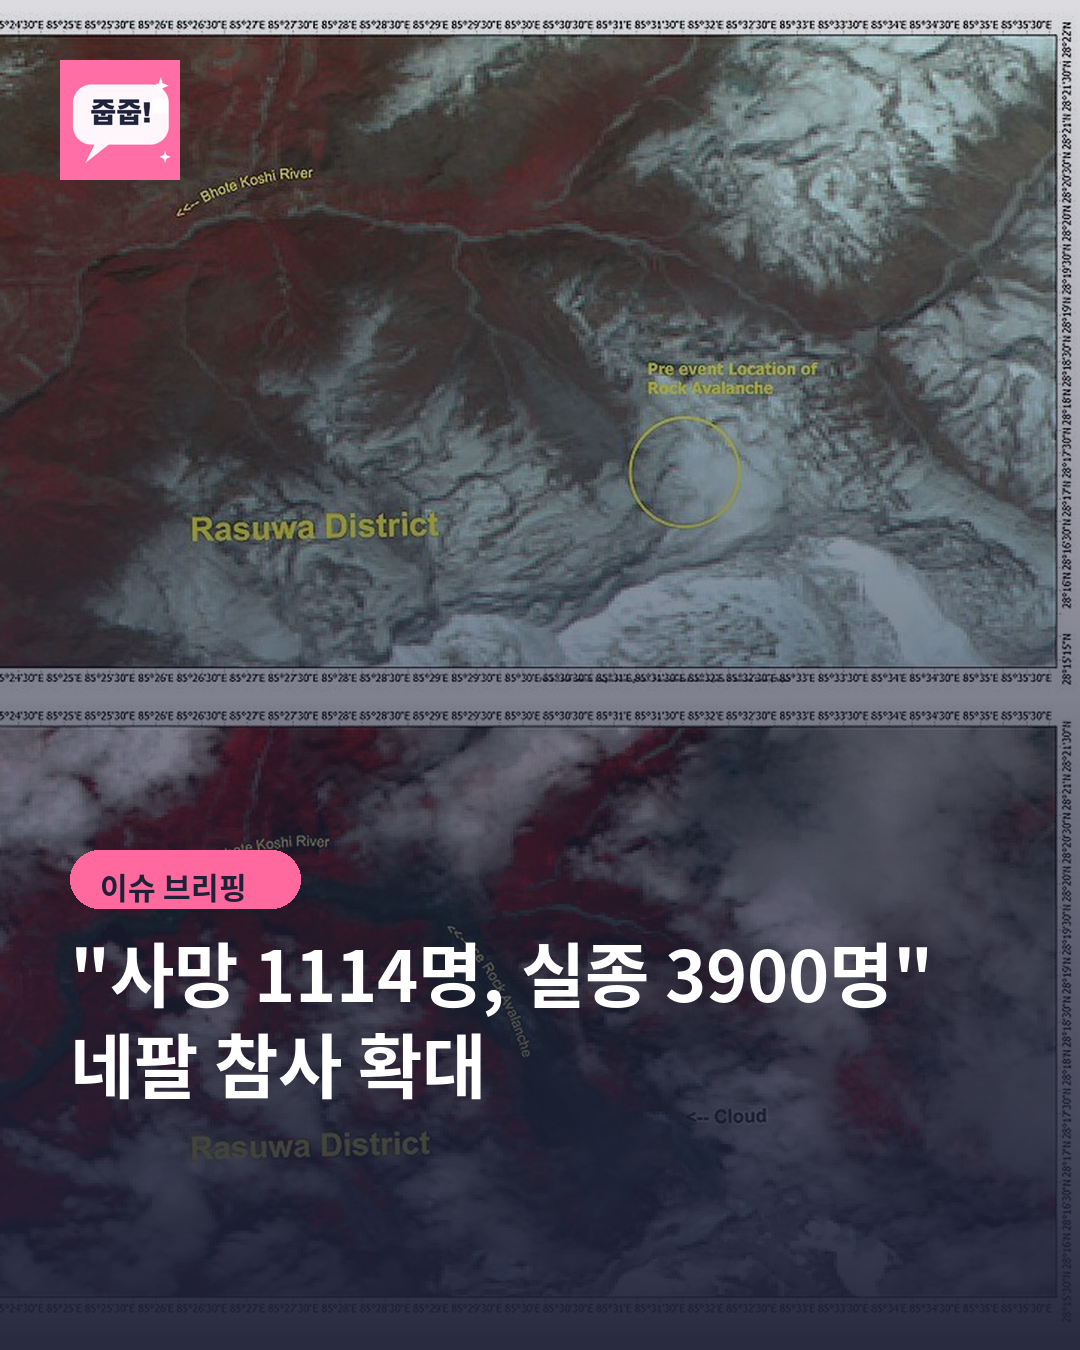
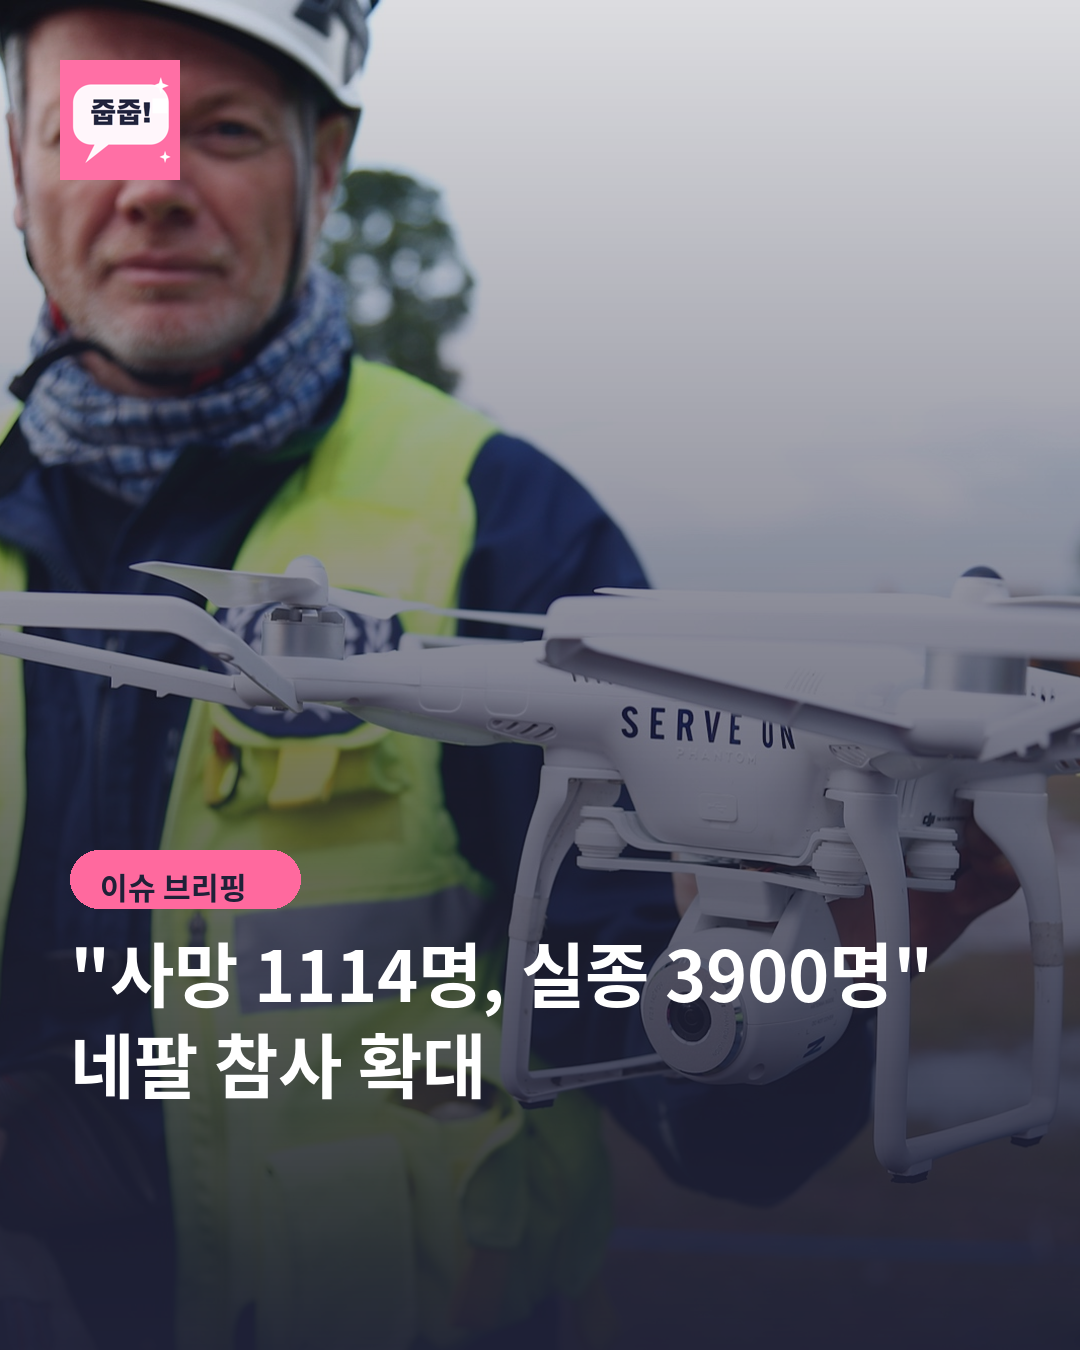
9/3 카드뉴스 6번(네팔 참사) 이미지를 위성사진에서 국제 수색구조 드론 사진으로 교체

diff --git a/assets/stock/stock_attribution.md b/assets/stock/stock_attribution.md
@@ -63,7 +63,7 @@
 | industry_posco_pohang.jpg | https://commons.wikimedia.org/wiki/File:Pohang_Korea_ISS020-E-09011_lrg.jpg | Public Domain | NASA (ISS Expedition 20) |
 | realestate_jamsil_apt.jpg | https://commons.wikimedia.org/wiki/File:Jamsil_Apartment_Complex_Phase_5_(6196571900).jpg | CC-BY-SA 2.0 | InSapphoWeTrust |
 | weather_autumn_bluesky.jpg | https://commons.wikimedia.org/wiki/File:감은사지_blue_sky.jpg | CC-BY-SA 4.0 | Ronnie Dayo |
-| disaster_nepal_satellite.jpg | https://commons.wikimedia.org/wiki/File:ESA_satellite_Imagery_of_2026_Nepal_Floods.jpg | CC-BY-SA 3.0 IGO | ESA |
+| disaster_nepal_rescue_drone.jpg | https://commons.wikimedia.org/wiki/File:Drone_surveillance_helps_search_and_rescue_in_Nepal_(16691214064).jpg | CC-BY 2.0 | Jessica Lea/DFID |
 | legal_nyc_courthouse.jpg | https://commons.wikimedia.org/wiki/File:Daniel_Patrick_Moynihan_U.S._Courthouse,_Manhattan,_New_York_(7237347688).jpg | CC-BY-SA 2.0 | Ken Lund |
 | government_nts_building.jpg | https://commons.wikimedia.org/wiki/File:South_Korea_National_Tax_Service(NTS).jpg | CC-BY-SA 4.0 | Minseong Kim |
 | sports_jamsil_stadium.jpg | https://commons.wikimedia.org/wiki/File:Interior_of_the_Jamsil_Baseball_Stadium.jpg | CC-BY-SA 4.0 | Christophe95 |

diff --git a/articles/2026-09-03.md b/articles/2026-09-03.md
@@ -103,7 +103,7 @@
 3. industry_posco_pohang.jpg — https://commons.wikimedia.org/wiki/File:Pohang_Korea_ISS020-E-09011_lrg.jpg (Public Domain, NASA)
 4. realestate_jamsil_apt.jpg — https://commons.wikimedia.org/wiki/File:Jamsil_Apartment_Complex_Phase_5_(6196571900).jpg (CC-BY-SA 2.0, InSapphoWeTrust)
 5. weather_autumn_bluesky.jpg — https://commons.wikimedia.org/wiki/File:감은사지_blue_sky.jpg (CC-BY-SA 4.0, Ronnie Dayo)
-6. disaster_nepal_satellite.jpg — https://commons.wikimedia.org/wiki/File:ESA_satellite_Imagery_of_2026_Nepal_Floods.jpg (ESA, CC-BY-SA 3.0 IGO)
+6. disaster_nepal_rescue_drone.jpg — https://commons.wikimedia.org/wiki/File:Drone_surveillance_helps_search_and_rescue_in_Nepal_(16691214064).jpg (CC-BY 2.0, Jessica Lea/DFID)
 7. legal_nyc_courthouse.jpg — https://commons.wikimedia.org/wiki/File:Daniel_Patrick_Moynihan_U.S._Courthouse,_Manhattan,_New_York_(7237347688).jpg (CC-BY-SA 2.0, Ken Lund)
 8. government_nts_building.jpg — https://commons.wikimedia.org/wiki/File:South_Korea_National_Tax_Service(NTS).jpg (CC-BY-SA 4.0, Minseong Kim)
 9. sports_jamsil_stadium.jpg — https://commons.wikimedia.org/wiki/File:Interior_of_the_Jamsil_Baseball_Stadium.jpg (CC-BY-SA 4.0, Christophe95)
